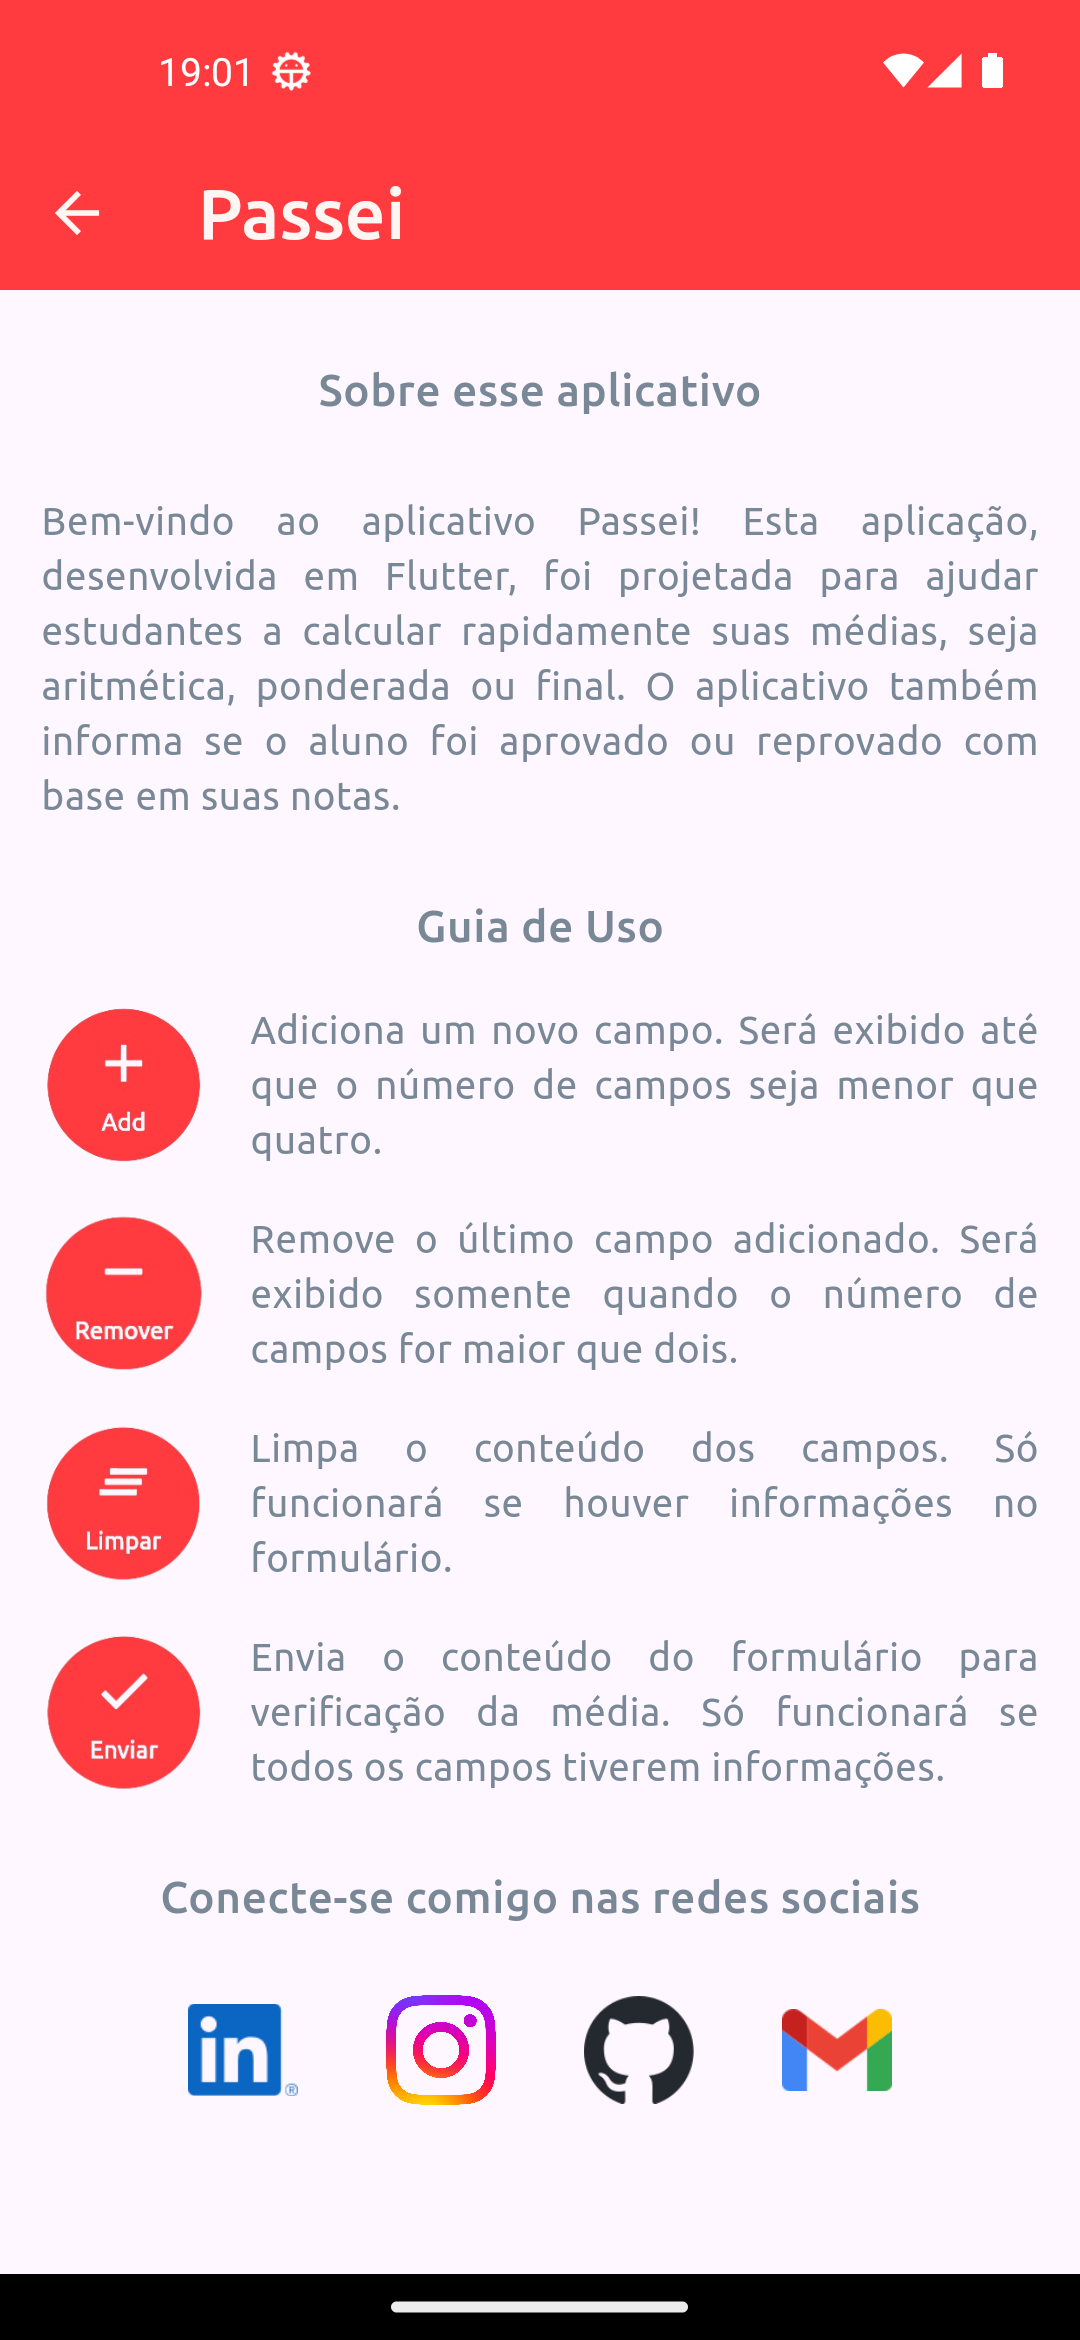
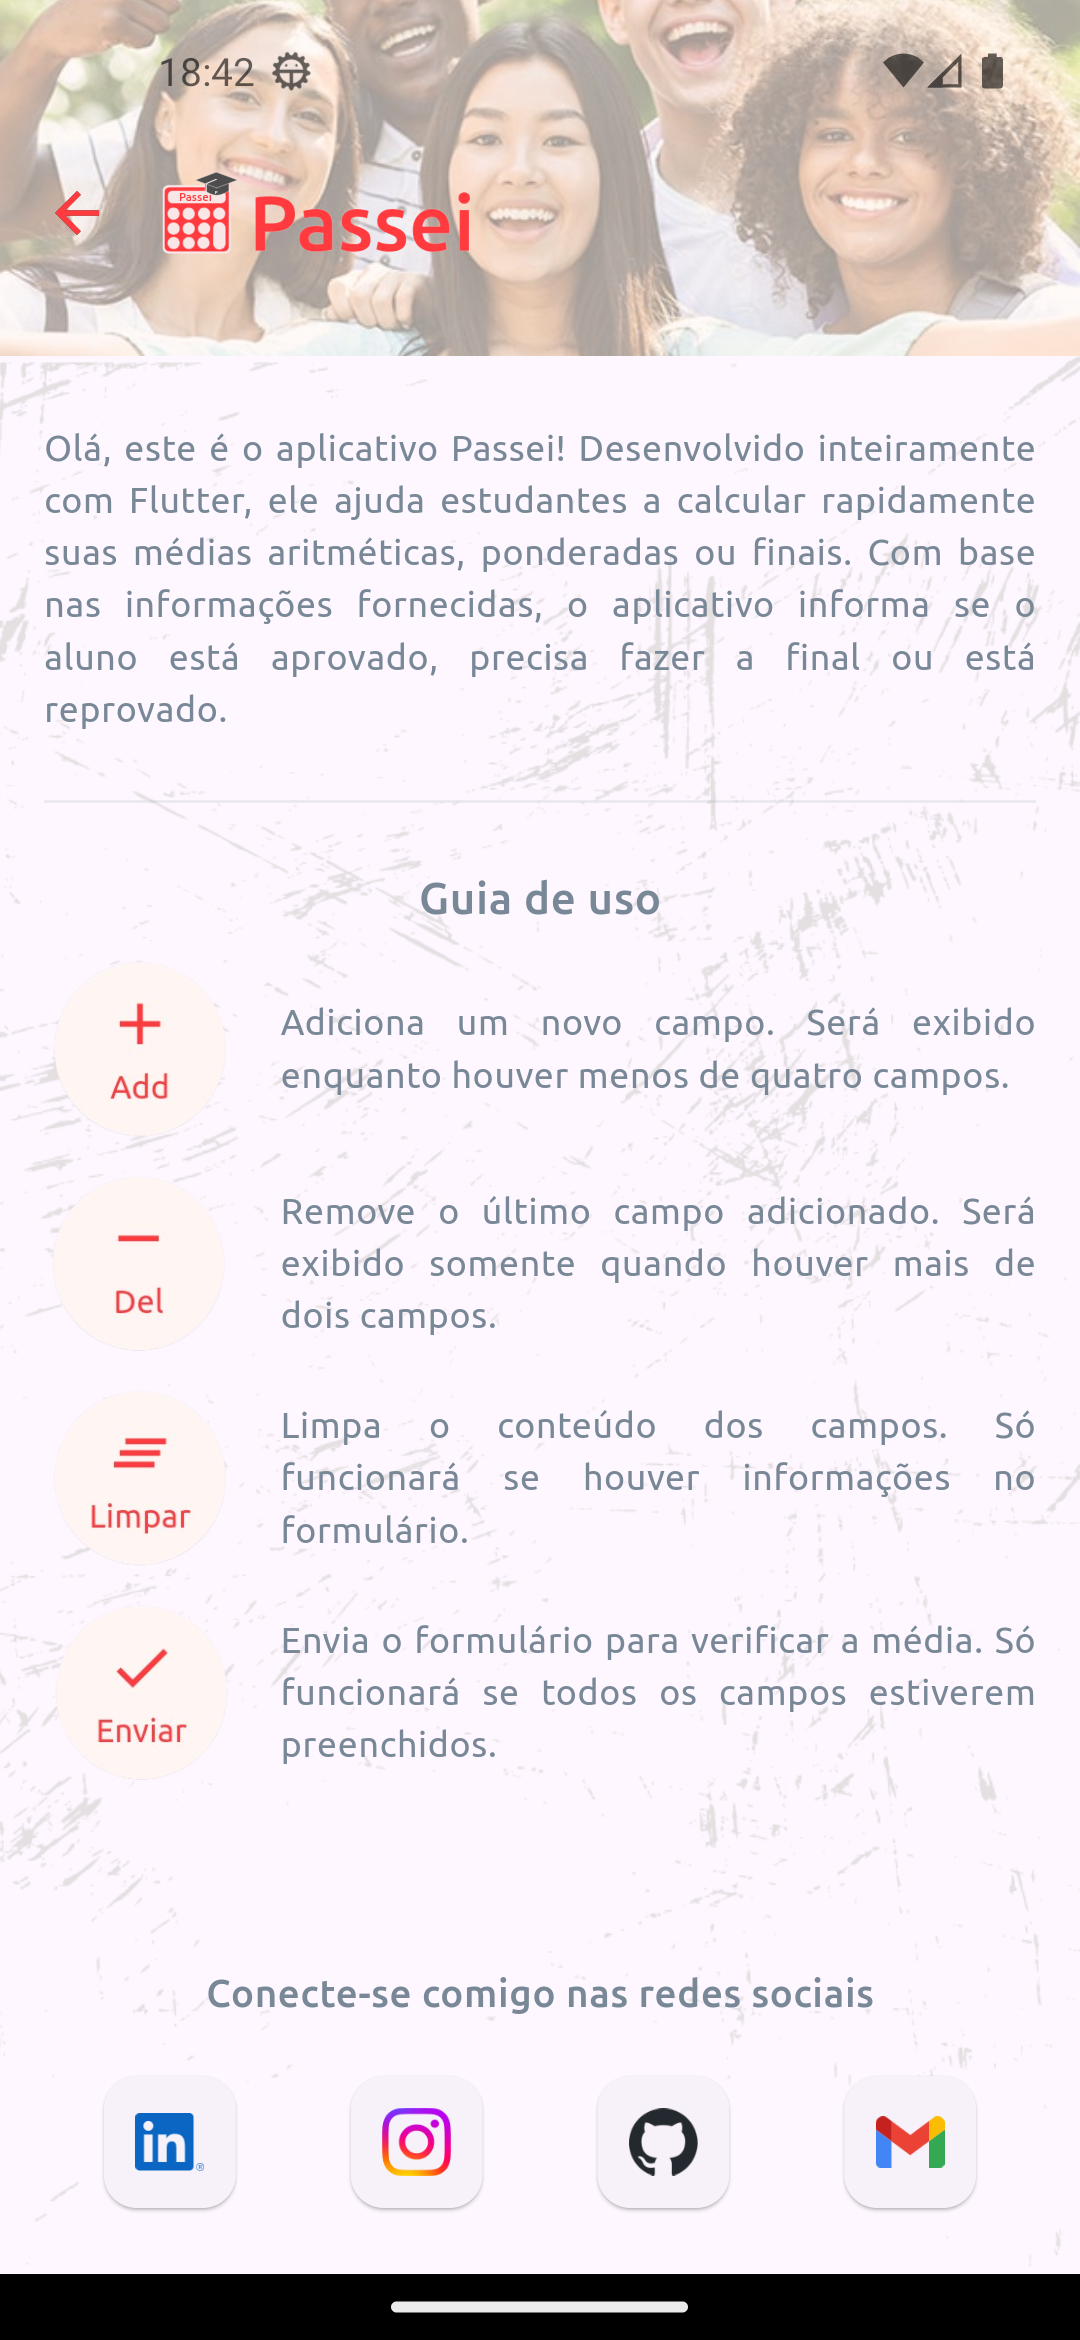
Atualização das telas do aplicativo e README

diff --git a/README.md b/README.md
@@ -1,6 +1,6 @@
 # 📱 Passei
 
-Bem-vindo (a) ao aplicativo **Passei**! Esta aplicação, desenvolvida em Flutter, foi projetada para ajudar estudantes a calcular rapidamente suas médias, seja aritmética, ponderada ou final. O aplicativo também informa se o aluno foi aprovado ou reprovado com base em suas notas.
+Olá, este é o aplicativo **Passei**! Desenvolvido inteiramente com Flutter, ele ajuda estudantes a calcular rapidamente suas médias aritméticas, ponderadas ou finais. Com base nas informações fornecidas, o aplicativo informa se o aluno está aprovado, precisa fazer a final ou está reprovado.
 
 ## 🚀 Funcionalidades
 
@@ -67,6 +67,11 @@ A estrutura principal do projeto é composta pelos seguintes arquivos:
 ## 🌟 Contribuições
 
 Contribuições são bem-vindas! Sinta-se à vontade para abrir issues e pull requests. Veja nosso [Guia de Contribuição](CONTRIBUTING.md) para mais detalhes.
+
+## 📥 Download Apk Android
+
+- [APK Passei]('download/app-release.apk')
+- [SHA1 Passei]('download/app-release.apk.sha1')
 
 ## 📄 Licença
 
